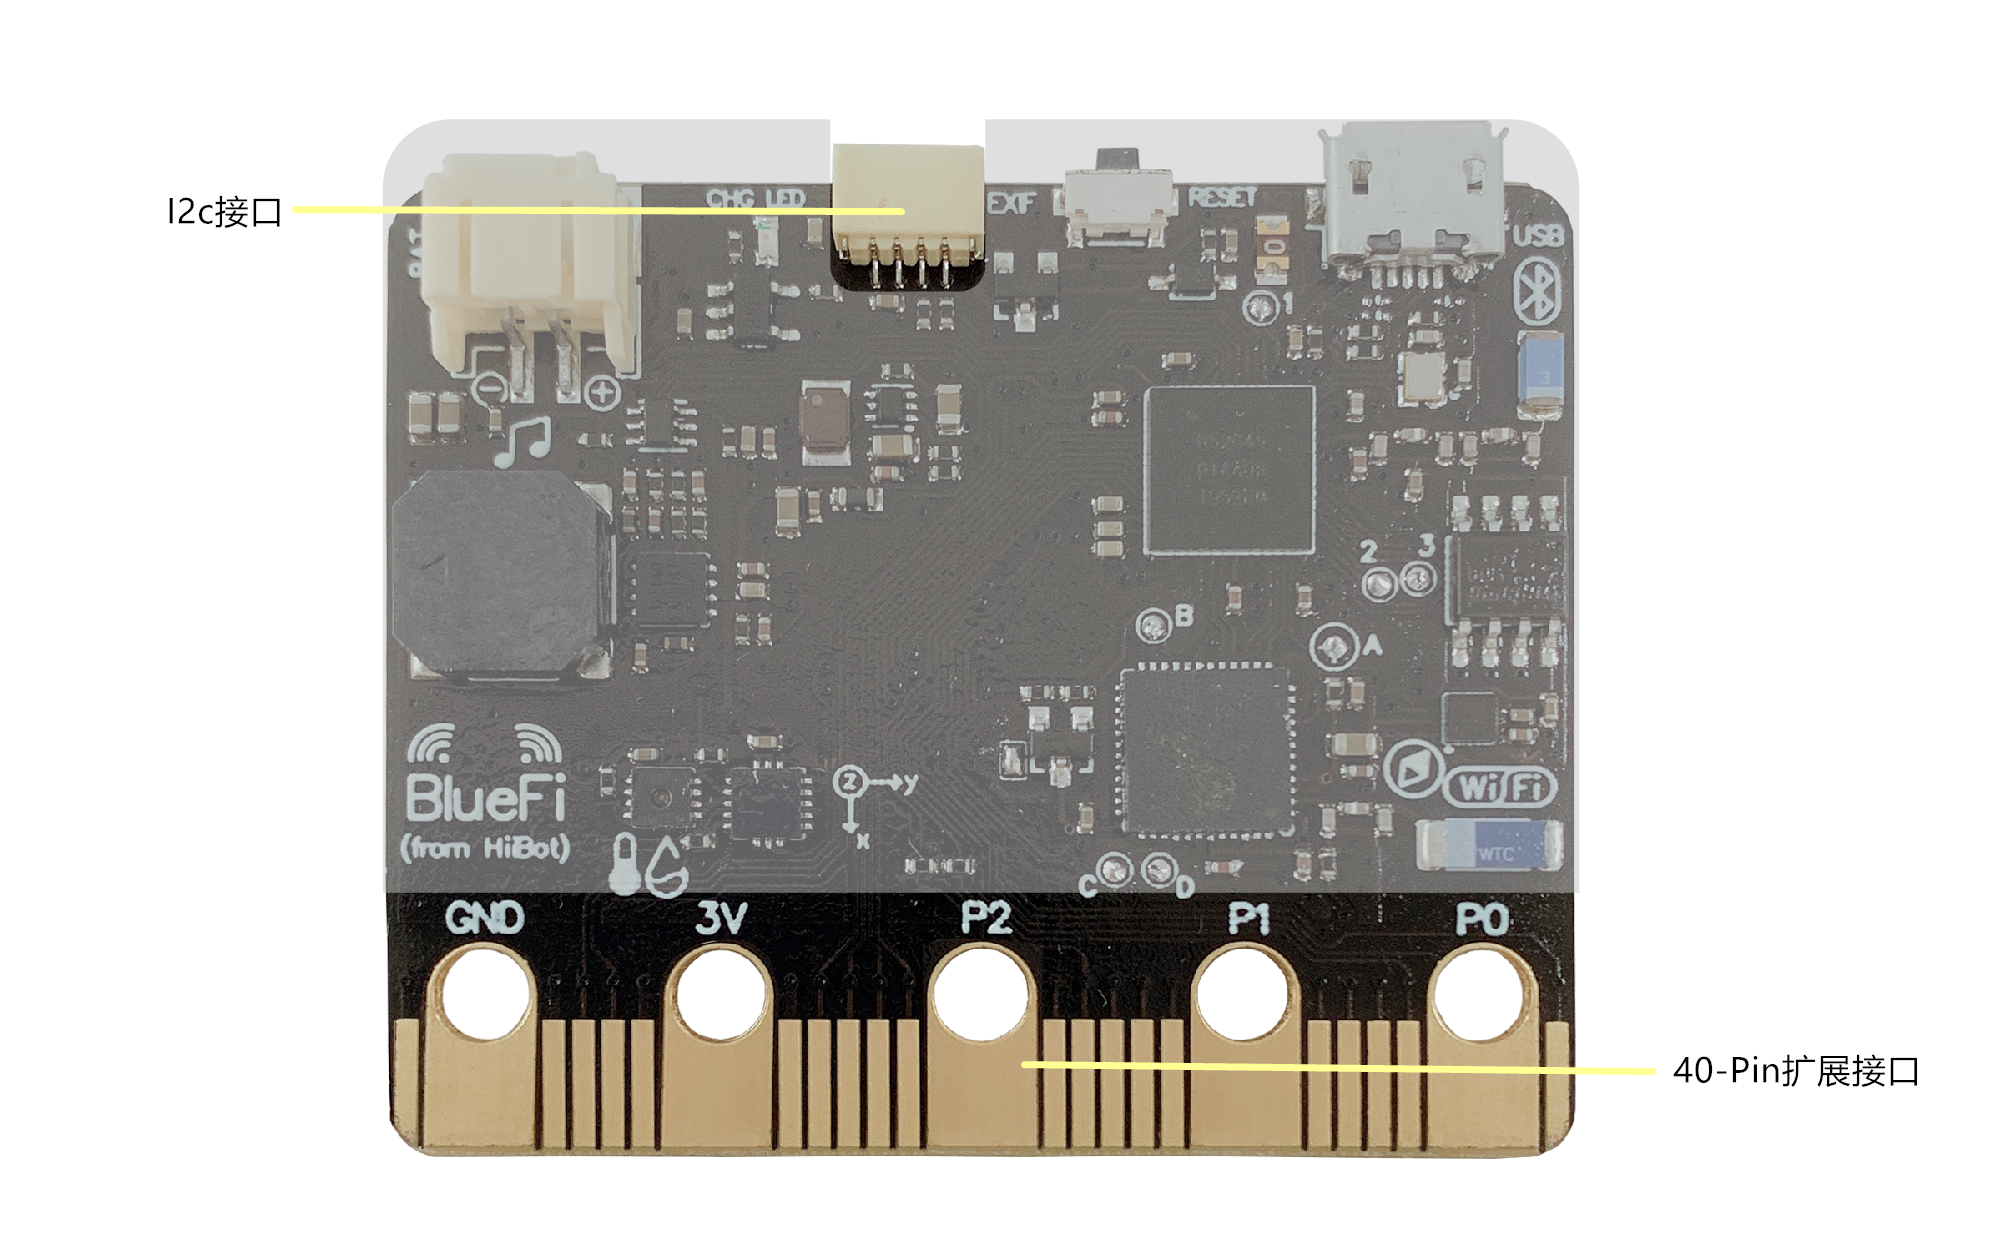
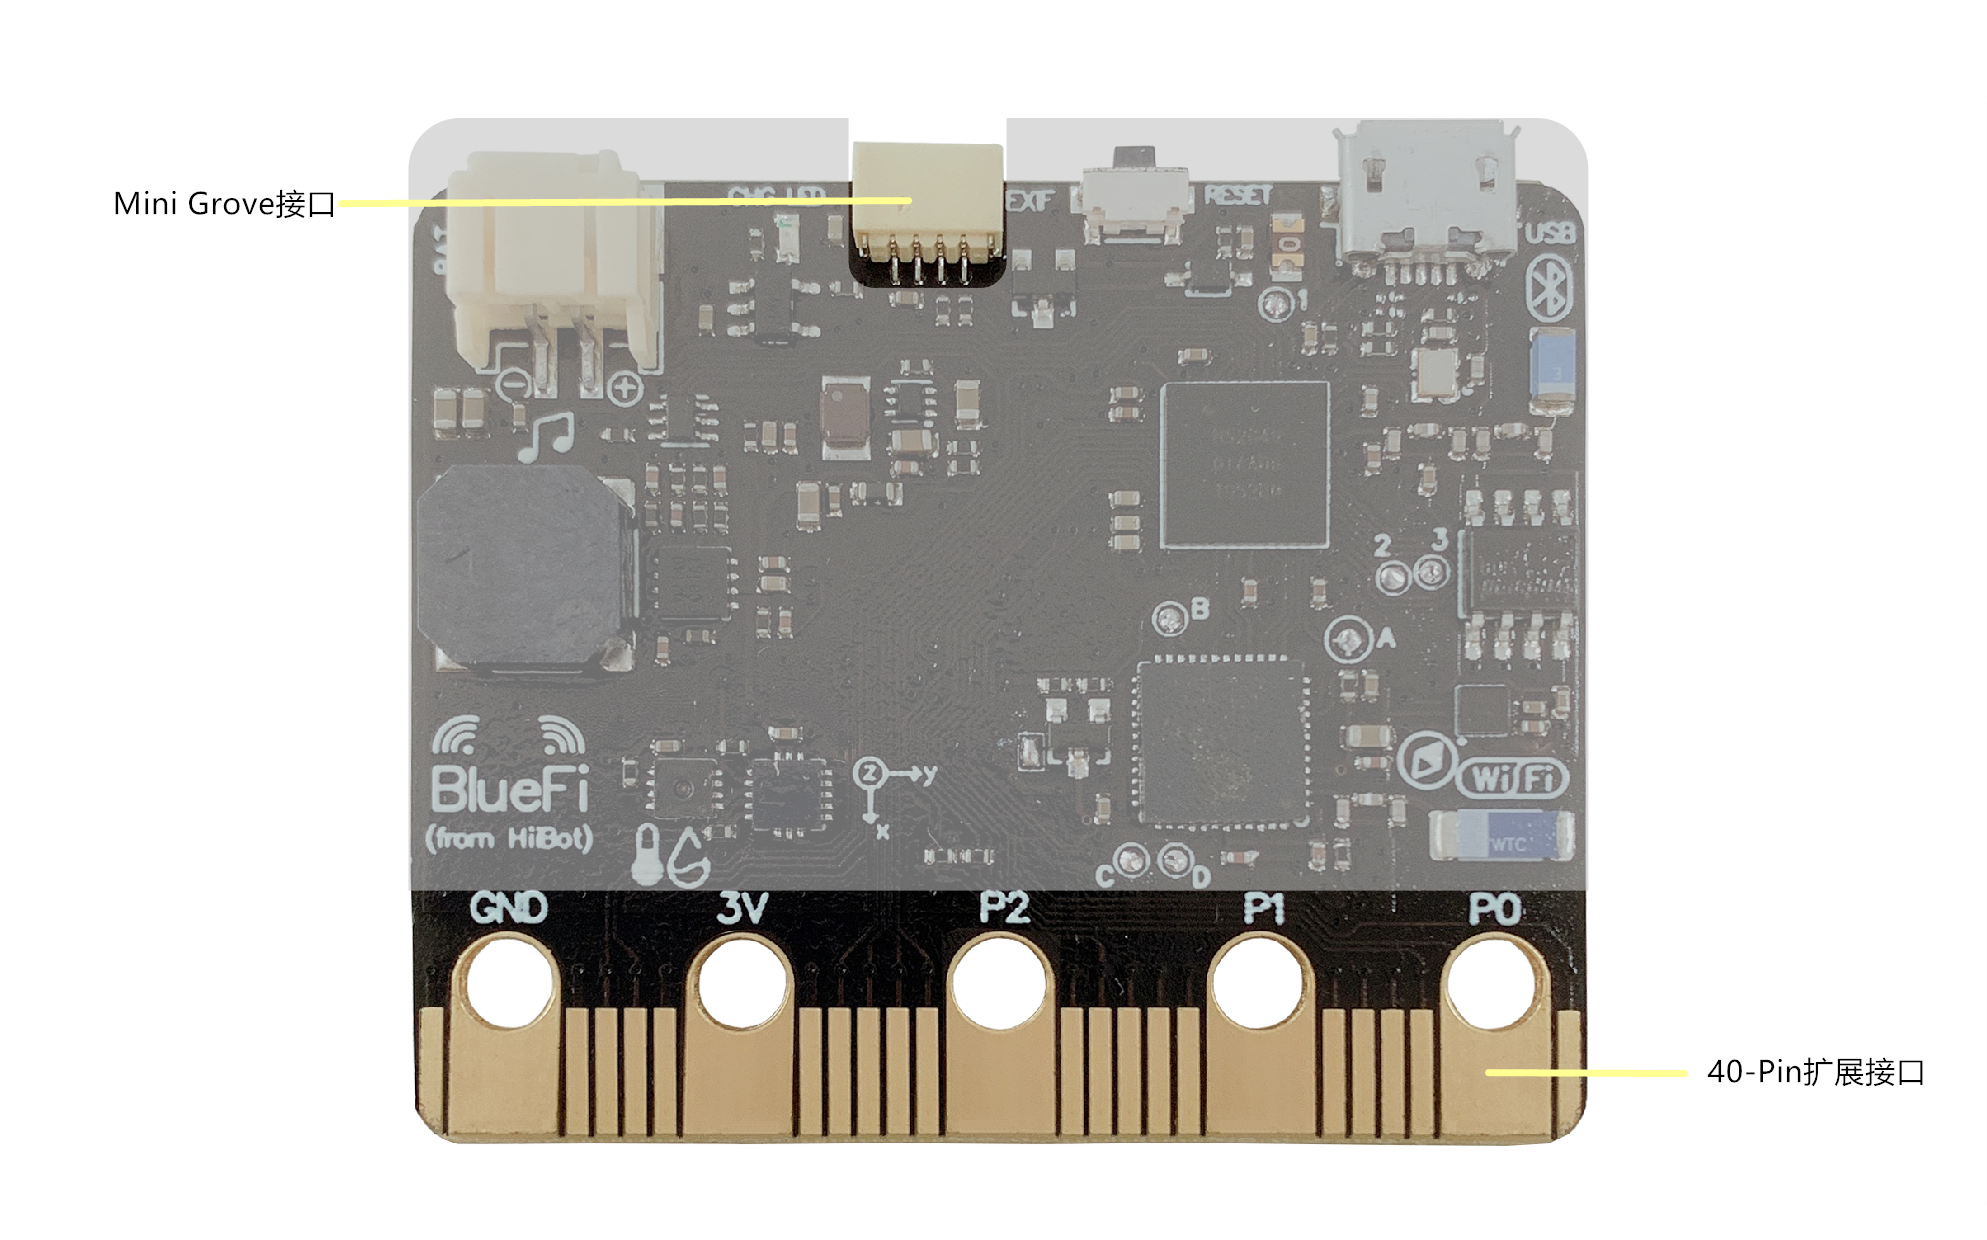
10.12   c1-7   c2-1

Changed region(s): [[0.0624, 0.0919, 0.9673, 0.9194]]

diff --git a/source/c1-Know about BlueFi/c1-7 IO.rst b/source/c1-Know about BlueFi/c1-7 IO.rst
@@ -2,12 +2,41 @@
 1.7 扩展接口
 ====================
 
-40-Pin拓展接口上除了电源和GND的19个引脚可编程作为 DI/ DO / PWM/ I2C/ I2S / SPI / UART等功能使用。可完全兼容microbit扩展板。
-
-mini-Grove接口，通过I2C通讯协议实现两块BlueFi之间的信息交流。
+除了上述小节中介绍的各种硬件设备，BlueFi还提供40-Pin扩展接口(见图1-8)来与外部设备进行电路连接。
+与传统的引脚不同的是，40-Pin扩展接口是以导电触片(金手指)的形式与外部电路相连。
 
 .. image:: ../_static/images/c1/IO扩展.png
   :scale: 30%
   :align: center
 
 图1-8  BlueFi 扩展接口
+
+在40-Pin扩展接口上，总共有5个大的引脚和20个小的引脚。
+
+5个大引脚分别为P0、P1、P2、3V、GND，前三个引脚可以作为触摸输入(1.2小节内有提到)，
+后两个引脚可用来为BlueFi供电或通过BlueFi向外部电路供电。在这5个引脚的上方有5个小洞，
+它可以方便我们使用鳄鱼夹或香蕉插头与外部硬件连接。
+
+在BlueFi上除了3V和GND引脚外，其余引脚可编程作为I2C、SPI、PWM等功能使用(详细分类见图1-9)。
+在小的引脚上，没有像大引脚一样的小洞可以用来与鳄鱼夹或香蕉插头相连，这时，我们就需要用到扩展板来引出小引脚，
+这方面的内容会在第6章“使用microbit扩展板”中讲到。
+
+.. image:: ../_static/images/c1/40pin引脚.jpg
+  :scale: 60%
+  :align: center
+
+图1-9  BlueFi 金手指拓展接口
+
+BlueFi的40-Pin扩展接口完全兼容microbit，因此可以使用microbit丰富的扩展板资源。
+使用40-Pin扩展接口可以帮助我们完成更为复杂的编程实例。
+
+BlueFi上的扩展接口除了40-Pin扩展接口外，还有一个Mini Grove接口(见图1-8、图1-10)，它采用了4-Pin防呆连接器，
+使用I2C接口标准，其上的4个引脚是从40-Pin扩展接口I2C部分引脚上引出的。
+
+.. image:: ../_static/images/c1/mini-grove.jpg
+  :scale: 55%
+  :align: center
+
+图1-10  BlueFi Mini Grove接口
+
+Mini Grove接口以有线连接的形式，可以令BlueFi与其他主机之间按照I2C通讯协议进行数据传输，如使两块BlueFi进行通讯。

diff --git a/source/c2-Power the BlueFi/c2-1 choose power.rst b/source/c2-Power the BlueFi/c2-1 choose power.rst
@@ -3,3 +3,10 @@
 ====================
 
 三种供电方式：1.pin引脚上的3.3V和GND接线供电；2.USB连接电脑供电3.电池供电
+
+
+.. image:: ../_static/images/c1/供电单元.png
+  :scale: 30%
+  :align: center
+
+图1-9  BlueFi 供电接口
